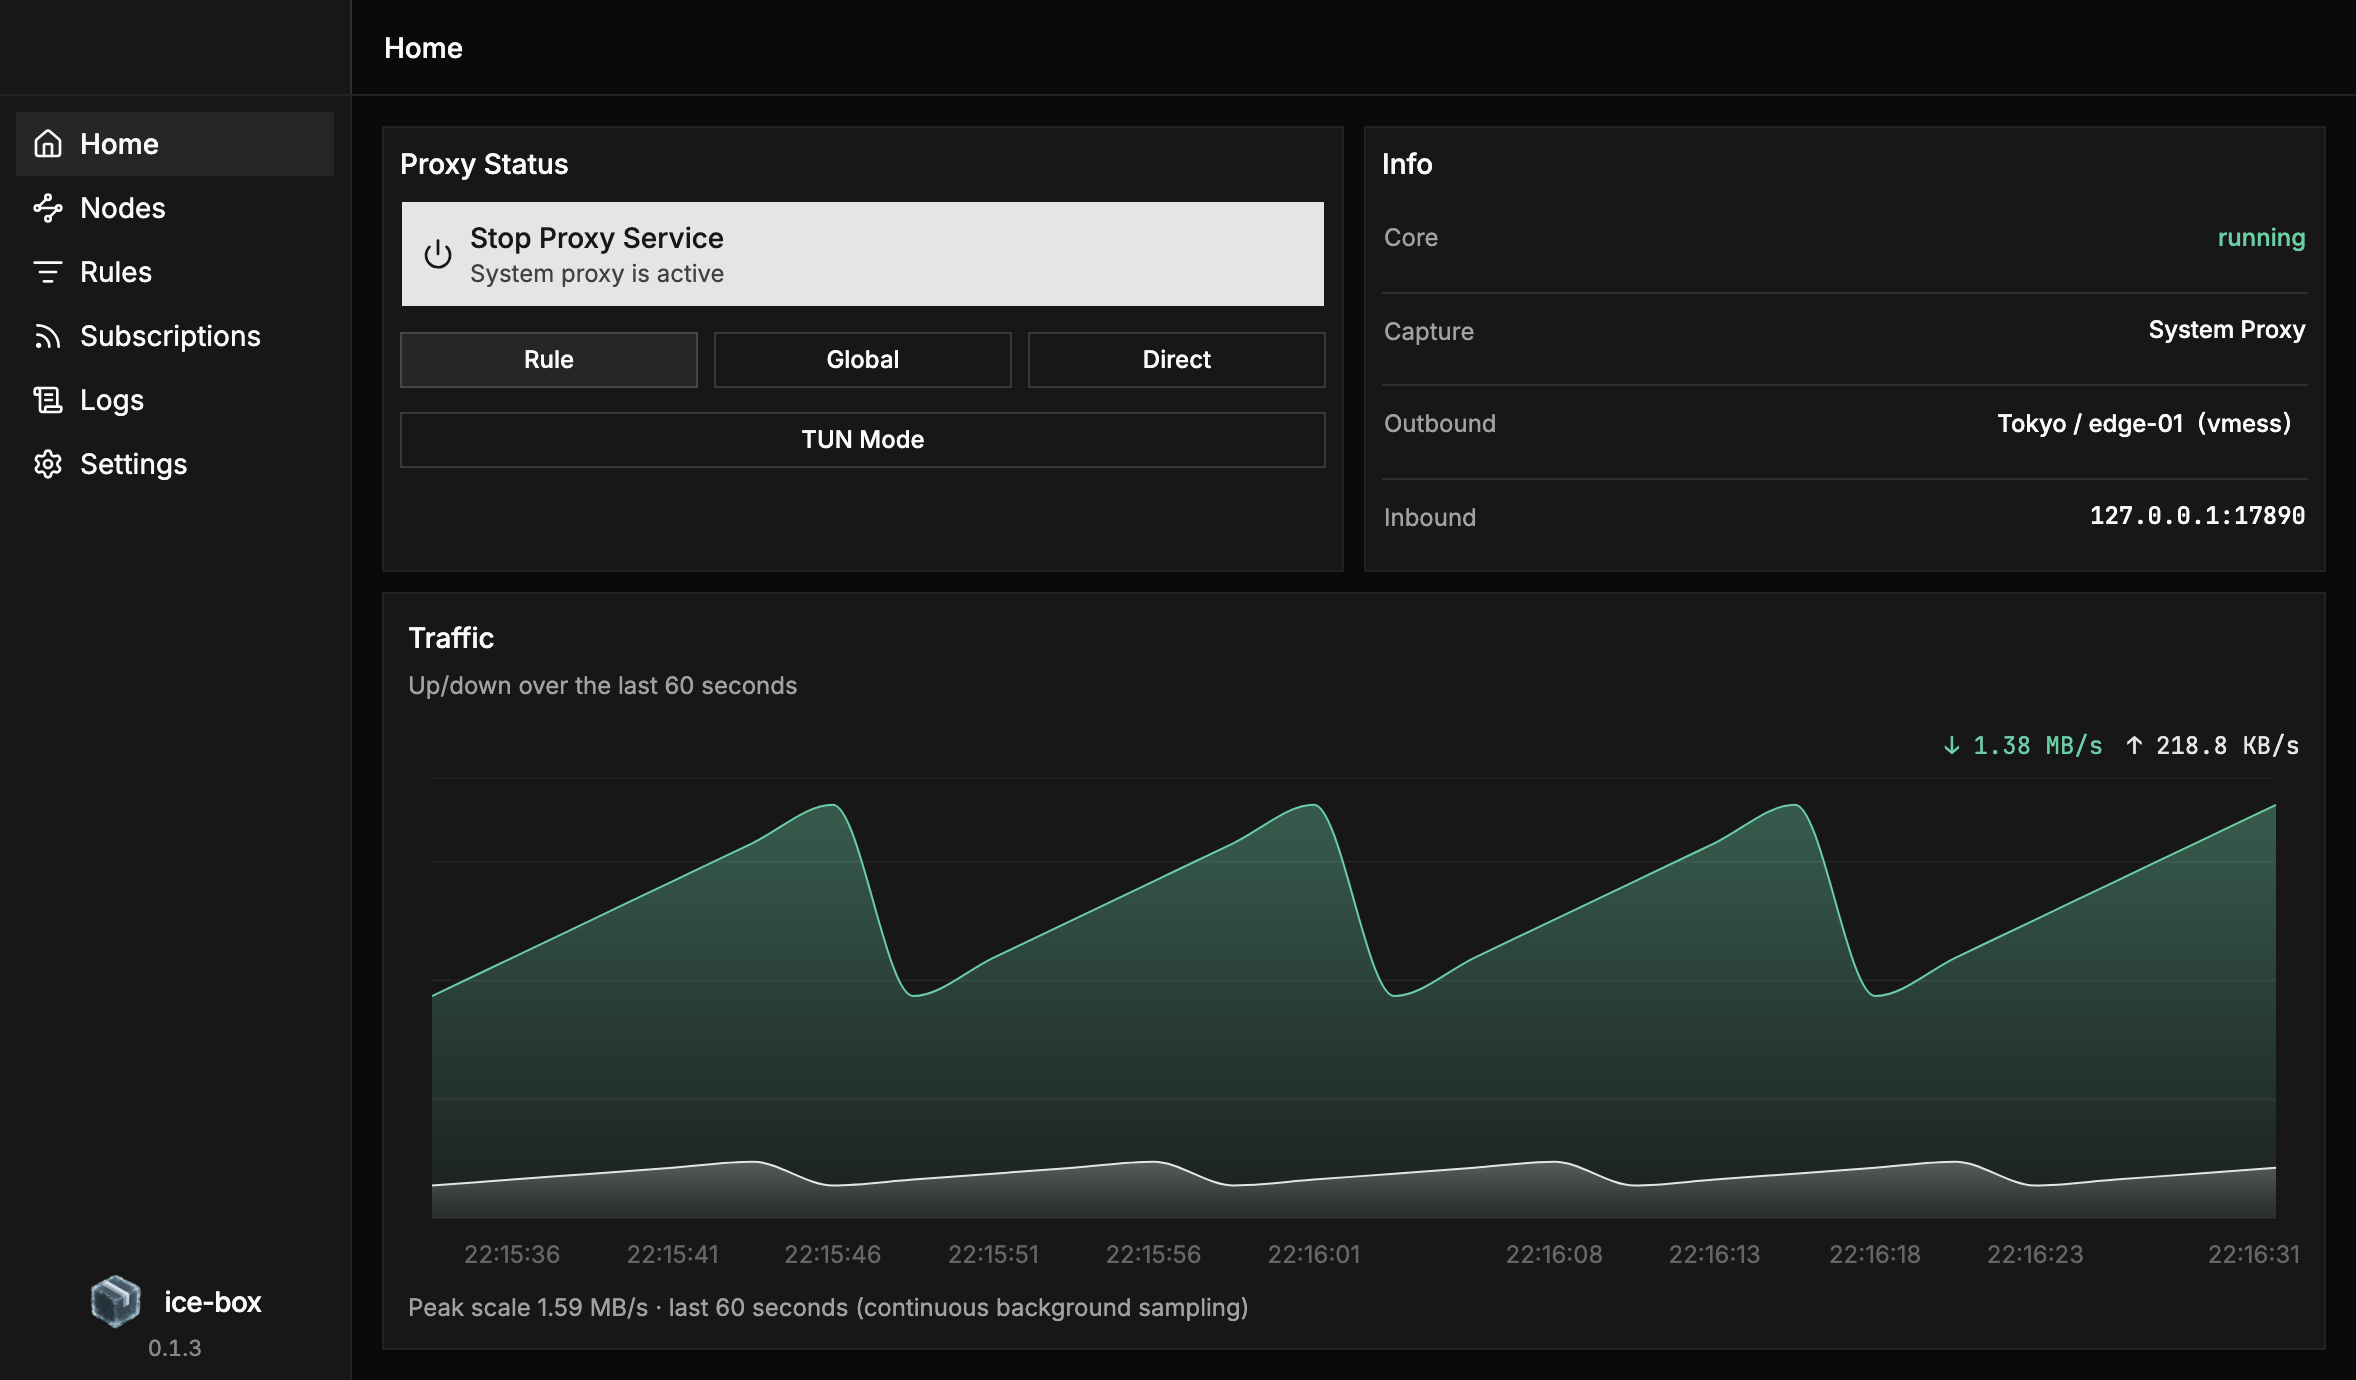
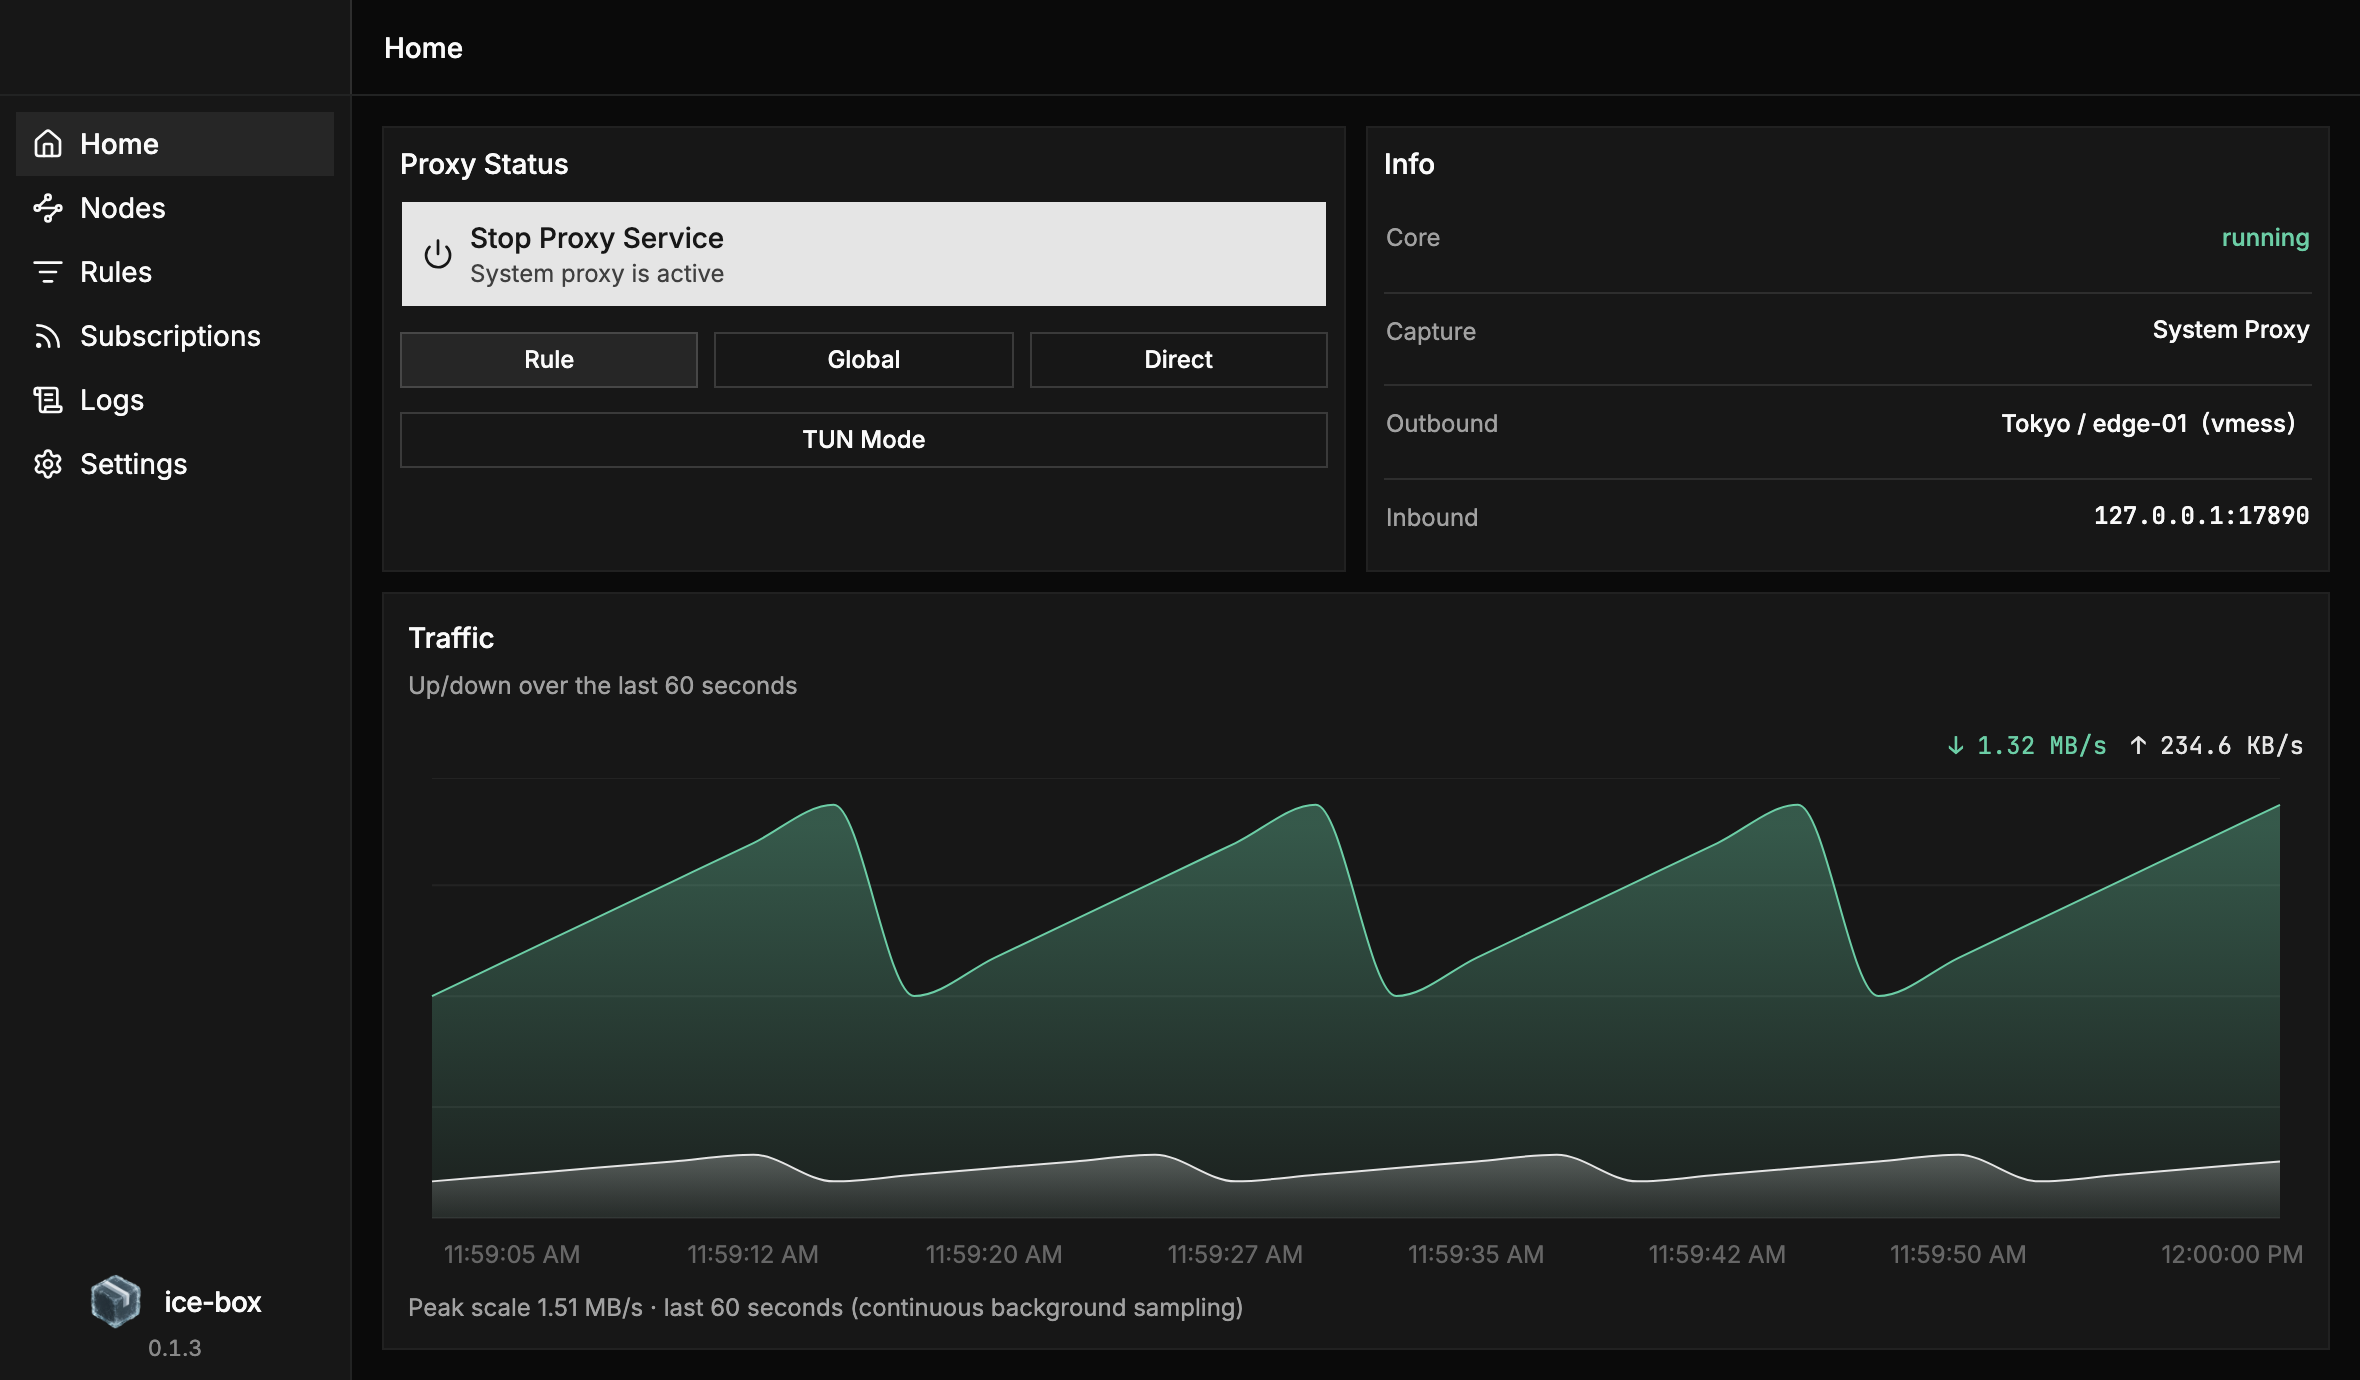
ci: capture the README demo screenshot in the local gate
Drop the GitHub Actions recapture job and refresh docs/images/home.png from gate-local / local gate.sh when the Live Demo UI changes.

diff --git a/apps/website/src/browser-api.ts b/apps/website/src/browser-api.ts
@@ -31,6 +31,13 @@ export type {
   TrafficSnapshot,
 } from "../../../apps/desktop/src/api/tauri";
 
+/** README / CI screenshot mode (`demo.html?capture=1`) freezes traffic and skips mock latency. */
+function isCaptureMode(): boolean {
+  return typeof window !== "undefined" && new URLSearchParams(window.location.search).get("capture") === "1";
+}
+
+const CAPTURE_NOW = Date.UTC(2026, 0, 15, 12, 0, 0);
+
 const settings: AppSettings = {
   mixed_listen: "127.0.0.1",
   mixed_port: 17890,
@@ -74,7 +81,7 @@ const subscriptions: SubscriptionMeta[] = [
     rule_count: 42,
     has_dns: true,
     parse_warnings: [],
-    last_updated: new Date(Date.now() - 4 * 60_000).toISOString(),
+    last_updated: new Date((isCaptureMode() ? CAPTURE_NOW : Date.now()) - 4 * 60_000).toISOString(),
     last_error: null,
     etag: null,
     last_modified: null,
@@ -100,7 +107,8 @@ const ruleRows = [
 let running = true;
 let trafficTick = 0;
 
-const delay = (ms = 80) => new Promise<void>((resolve) => window.setTimeout(resolve, ms));
+const delay = (ms = 80) =>
+  isCaptureMode() ? Promise.resolve() : new Promise<void>((resolve) => window.setTimeout(resolve, ms));
 
 export function formatInvokeError(err: unknown): string {
   if (err && typeof err === "object" && "message" in err) return String(err.message);
@@ -140,7 +148,21 @@ export const api = {
   async setGroupSelection(): Promise<void> { await delay(); },
   async testNodeDelay(tag: string): Promise<DelayTestResponse> { await delay(300); return { tag, delay_ms: 42 + Math.floor(Math.random() * 90) }; },
   async getTrafficSnapshot(): Promise<TrafficSnapshot> {
-    await delay(); trafficTick += 1;
+    await delay();
+    if (isCaptureMode()) {
+      const up = 240_200;
+      const down = 1_380_000;
+      return {
+        points: Array.from({ length: 24 }, (_, index) => ({
+          t: CAPTURE_NOW - (23 - index) * 2500,
+          up: up * (0.55 + (index % 5) / 10),
+          down: down * (0.58 + (index % 6) / 10),
+        })),
+        latest: { up, down },
+        peak: { up: up * 1.2, down: down * 1.15 },
+      };
+    }
+    trafficTick += 1;
     const up = running ? 180_000 + (trafficTick % 5) * 22_000 : 0;
     const down = running ? 1_300_000 + (trafficTick % 7) * 75_000 : 0;
     return { points: Array.from({ length: 24 }, (_, index) => ({ t: Date.now() - (23 - index) * 2500, up: up * (0.55 + (index % 5) / 10), down: down * (0.58 + (index % 6) / 10) })), latest: { up, down }, peak: { up: up * 1.2, down: down * 1.15 } };
